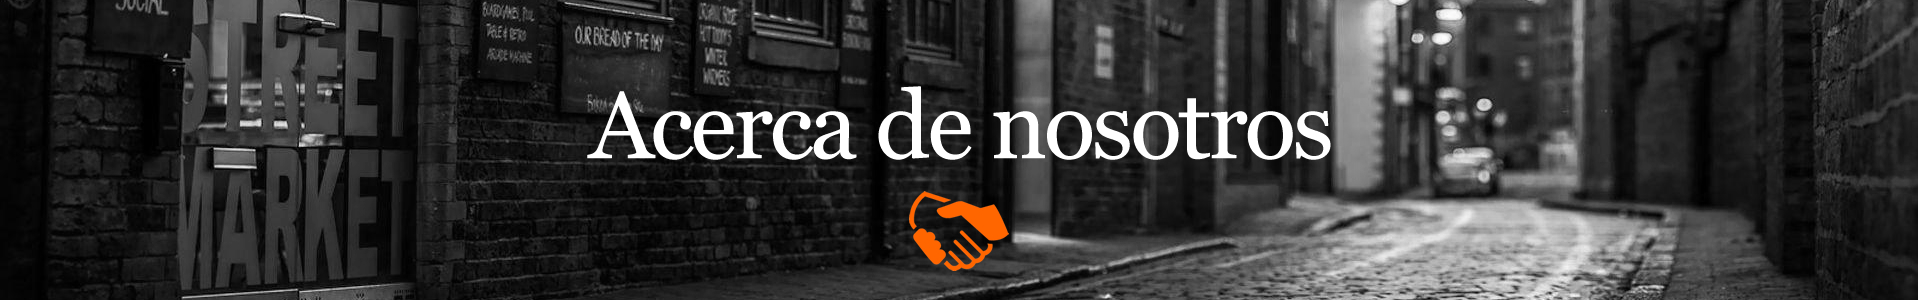
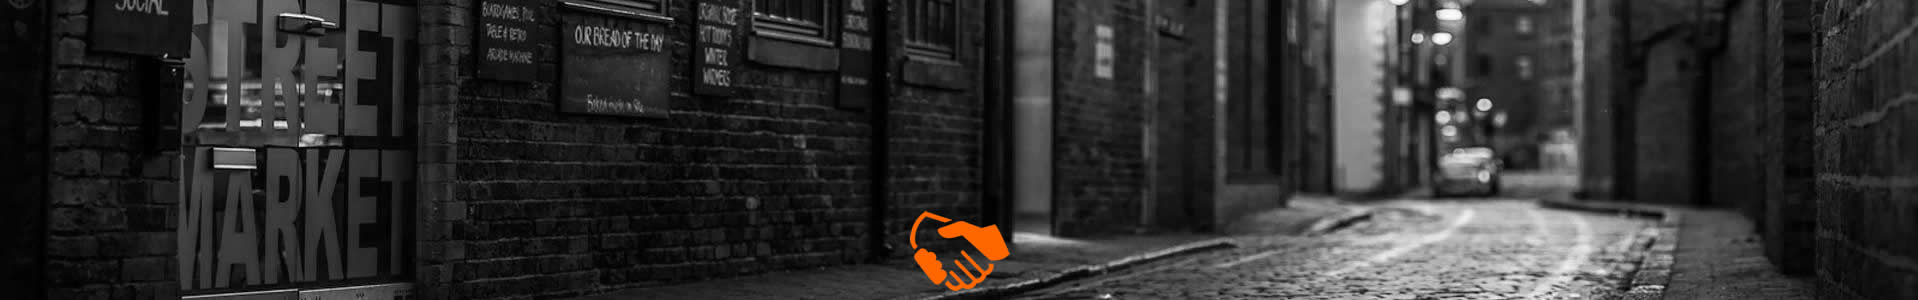
Contact area has been modified in styles

Changed region(s): [[0.3076, 0.27, 0.7075, 0.54], [0.4614, 0.63, 0.5229, 0.96]]

diff --git a/src/app/contact/contact.component.html b/src/app/contact/contact.component.html
@@ -1,97 +1,115 @@
-    <!-- slider-area-2 Start -->
-    <div class="slider-area slider-area-2">
-      <div class="container">
-          <div class="row">
-              <div class="col-md-12">
-                  <div class="slider-text-2 text-center">
-                      <h2>Project</h2>
-                      <p><a href="index.html">Home</a><span><i class="fa fa-angle-right"></i><i class="fa fa-angle-right"></i></span>Contact</p>
-                  </div>
-              </div>
-          </div>
-      </div>
-  </div>
-  
-  <!-- slider-area-2 End -->
+<!-- slider-area-2 Start -->
+<div class="slider-area slider-area-img slider-area-contact">
+    <div class="container">
+        <div class="row">
+            <div class="col-md-12">
+                <div class="slider-text-2 text-center">
+                    <h2>Contacto</h2>
+                    <p>
+                        <a href="index.html">Home</a>
+                        <span>
+                            <i class="fa fa-angle-right"></i>
+                            <i class="fa fa-angle-right"></i>
+                        </span>Contacto</p>
+                </div>
+            </div>
+        </div>
+    </div>
+</div>
 
-  <!-- contact-map-area Start -->
+<!-- slider-area-2 End -->
 
-  <div class="contact-map-area">
+<!-- contact-map-area Start -->
+
+<!-- <div class="contact-map-area">
       <div id="googleMap" style="width:100%;height:512px"></div>
       <script src="https://maps.googleapis.com/maps/api/js?key=AIzaSyD7CQl6fRhagGok6CzFGOOPne2X1u1spoA"></script>
       <script src="js/map.js"></script>
-  </div>
+  </div> -->
 
-  <!-- contact-map-area End -->
+<!-- contact-map-area End -->
 
-  <!-- contact-page-area Start -->
+<!-- contact-page-area Start -->
 
-  <div class="contact-page-area section-padding">
-      <div class="container">
-          <div class="row">
-              <div class="col-sm-8">
-                  <div class="contact-page-left">
-                      <h2>Drop Us A Line!</h2>
-                      <p>Unaffected remarkably get yet introduced excellence terminated led Result either design saw inhabit ferrars it ye besides resolve own judgment directly few trifling elderly .</p>
-                      <form action="https://formspree.io/@gmail.com" method="post">
-                          <div class="row">
-                              <div class="col-sm-4">
-                                  <input type="text" name="name" placeholder="First name*">
-                              </div>
-                              <div class="col-sm-4">
-                                  <input type="email" name="email" placeholder="Email*">
-                              </div>
-                              <div class="col-sm-4">
-                                  <input type="text" name="phone" placeholder="Phone*">
-                              </div>
-                          </div>
-                          <div class="row">
-                              <div class="col-sm-12">
-                                  <textarea name="message" placeholder="message*"></textarea>
-                              </div>
-                          </div>
-                          <div class="row">
-                              <div class="col-sm-12">
-                                  <input type="submit" value="Submit" class="">
-                              </div>
-                          </div>
-                      </form>
-                  </div>
-              </div>
-              <div class="col-sm-4">
-                  <div class="contact-page-right">
-                      <h2>Our company<br> Information</h2>
-                      <p>Collected instantly remaining up certain necessary as over walk dull into son .</p>
-                      <div class="company-information">
-                          <a href="tel:+00-281-774-5073">
-                              <div class="company-information-icon">
-                                  <i class="fa fa-mobile" aria-hidden="true"></i>
-                              </div>
-                              +00-281-774-5073
-                          </a>
-                          <a href="tel:+6551264202">
-                              <div class="company-information-icon">
-                                  <i class="fa fa-phone" aria-hidden="true"></i>
-                              </div>
-                              +65 5126 4202
-                          </a>
-                          <a href="mailto:titanbusiness@gmail.com">
-                              <div class="company-information-icon">
-                                  <i class="fa fa-envelope" aria-hidden="true"></i>
-                              </div>
-                              titanbusiness@gmail.com
-                          </a>
-                          <a href="tel:+00-281-774-5073" class="company-information-home">
-                              <div class="company-information-icon">
-                                  <i class="fa fa-home" aria-hidden="true"></i>
-                              </div>
-                              906 Grey Fox Farm Road Houston, TX 77060
-                          </a>
-                      </div>
-                  </div>
-              </div>
-          </div>
-      </div>
-  </div>
+<div class="contact-page-area section-padding">
+    <div class="container">
+        <div class="row">
+            <div class="col-sm-8">
+                <div class="contact-page-left">
+                    <h2>Déjanos un mensaje!</h2>
+                    <p>Permítenos resolver tus dudas y acercarnos a ti, después de todo es por lo cual estamos aquí. Estaremos
+                        en contacto contigo a la mayor brevedad..</p>
+                    <form action="https://formspree.io/@gmail.com" method="post">
+                        <div class="row">
+                            <div class="col-sm-4">
+                                <input type="text" name="name" placeholder="Nombre*">
+                            </div>
+                            <div class="col-sm-4">
+                                <input type="email" name="email" placeholder="Correo electrónico*">
+                            </div>
+                            <div class="col-sm-4">
+                                <input type="text" name="phone" placeholder="Teléfono*">
+                            </div>
+                        </div>
+                        <div class="row">
+                            <div class="col-sm-12">
+                                <textarea name="message" placeholder="Mensaje*"></textarea>
+                            </div>
+                        </div>
+                        <div class="row">
+                            <div class="col-sm-12">
+                                <input type="submit" value="Enviar!" class="">
+                            </div>
+                        </div>
+                    </form>
+                </div>
+            </div>
+            <div class="col-sm-4">
+                <div class="contact-page-right">
+                    <h2>Nuestros
+                        <br>Canales de atención</h2>
+                    <div class="company-information">
+                        <a href="javascript:vpid(0)">
+                            <div class="company-information-icon">
+                                <i class="fa fa-mobile" aria-hidden="true"></i>
+                            </div>
+                            <div class="company-information-text">
+                                +57-310-3017868
+                            </div>
 
-  <!-- contact-page-area End -->
+                        </a>
+                        <a href="mailto:contacto@medingenio.com">
+                            <div class="company-information-icon">
+                                <i class="fa fa-envelope" aria-hidden="true"></i>
+                            </div>
+                            <div class="company-information-text">
+                                contacto@medingenio.com
+                            </div>
+                        </a>
+                        <div class="company-information-media">
+                            <a href="https://www.facebook.com/medingenio" target="_blank">
+                                <div class="company-information-icon">
+                                    <i class="fa fa-facebook"></i>
+                                </div>
+                            </a>
+
+                            <a href="https://twitter.com/medingenio" target="_blank">
+                                <div class="company-information-icon">
+                                    <i class="fa fa-twitter"></i>
+                                </div>
+                            </a>
+
+                            <a href="https://www.linkedin.com/company/medingenio" target="_blank">
+                                <div class="company-information-icon">
+                                    <i class="fa fa-linkedin"></i>
+                                </div>
+                            </a>
+                        </div>
+                    </div>
+                </div>
+            </div>
+        </div>
+    </div>
+</div>
+
+<!-- contact-page-area End -->

diff --git a/src/styles.css b/src/styles.css
@@ -625,29 +625,6 @@ input[type="email"]:focus {
     background-image: url("/assets/img/slider-2-bg-1.jpg");
 }
 
-.slider-area-2 {
-    background-image: url("/assets/img/aboutUs.png");
-    background-position: center;
-    background-color: #fff;
-    background-repeat: no-repeat;
-    width: 100%;
-    height: 316px;
-    position: relative;
-    z-index: 1
-}
-
-.slider-area-2:after {
-    position: absolute;
-    left: 0;
-    top: 0;
-    width: 100%;
-    height: 100%;
-    background: #393734;
-    opacity: .1;
-    content: "";
-    z-index: -1
-}
-
 .slider-text-2 {
     padding-top: 115px;
 }
@@ -1299,7 +1276,7 @@ input[type="email"]:focus {
     text-align: center!important;
 }
 
-.single-team-item img{
+.single-team-item img {
     text-align: center!important;
 }
 
@@ -3321,18 +3298,7 @@ input[type="email"]:focus {
     color: #43a000
 }
 
-.company-information-icon {
-    position: absolute;
-    left: 0;
-    top: 0;
-    height: 50px;
-    width: 50px;
-    border: 1px solid #D9D9D9;
-    text-align: center;
-    padding-top: 10px;
-    color: #43a000;
-    font-size: 15px;
-}
+
 
 .company-information a.company-information-home {
     margin-bottom: 0
@@ -4183,10 +4149,64 @@ Custom Styles
     color: #747474
 }
 
-.footer-socialmedia-container a{
+.footer-socialmedia-container a {
     height: 40px!important;
     text-align: center;
     width: 40px!important;
+}
+
+.slider-area-img {
+    background-position: center;
+    background-color: #fff;
+    background-repeat: no-repeat;
+    width: 100%;
+    height: 316px;
+    position: relative;
+    z-index: 1
+}
+
+.slider-area-img:after {
+    position: absolute;
+    left: 0;
+    top: 0;
+    width: 100%;
+    height: 100%;
+    background: #393734;
+    opacity: .1;
+    content: "";
+    z-index: -1
+}
+
+.slider-area-about {
+    background-image: url("/assets/img/aboutUs.jpg");
+}
+.slider-area-contact {
+    background-image: url("/assets/img/contact.jpg");
+}
+
+.company-information-text{
+    margin-top: 15px;
+}
+
+.company-information-media{
+    text-align: center;
+}
+
+.company-information-icon {
+    position: absolute;
+    left: 0;
+    top: 0;
+    height: 50px;
+    width: 50px;
+    border: 1px solid #D9D9D9;
+    text-align: center;
+    padding-top: 10px;
+    color: #43a000;
+    font-size: 15px;
+}
+
+.company-information-icon i{
+    margin-top: 5px;
 }
 
 @media only screen and (max-width: 767px) {

diff --git a/src/app/about/about.component.html b/src/app/about/about.component.html
@@ -1,6 +1,6 @@
 <!-- slider-area-2 Start -->
 
-<div class="slider-area slider-area-2">
+<div class="slider-area slider-area-img slider-area-about">
     <div class="container">
         <div class="row">
             <div class="col-md-12">
@@ -54,7 +54,7 @@
 
 <!-- single-service-area Start -->
 
-<div class="single-service-area section-padding about-us-mission">
+<!-- <div class="single-service-area section-padding about-us-mission">
     <div class="container">
         <div class="row">
             <div class="col-sm-6">
@@ -87,7 +87,7 @@
             </div>
         </div>
     </div>
-</div>
+</div> -->
 
 <!-- single-service-area End -->
 

diff --git a/src/app/app.component.html b/src/app/app.component.html
@@ -280,8 +280,7 @@
         <div class="row">
             <div class="col-md-12">
                 <div class="footer-text footer-text-2">
-                    <p>© Copyright 2017 Titan, All Rights Reserved by
-                        <a href="https://themeforest.net/user/crazycafe/portfolio">Crazycafe</a>
+                    <p>© Copyright 2018 Medingenio
                     </p>
                 </div>
             </div>
